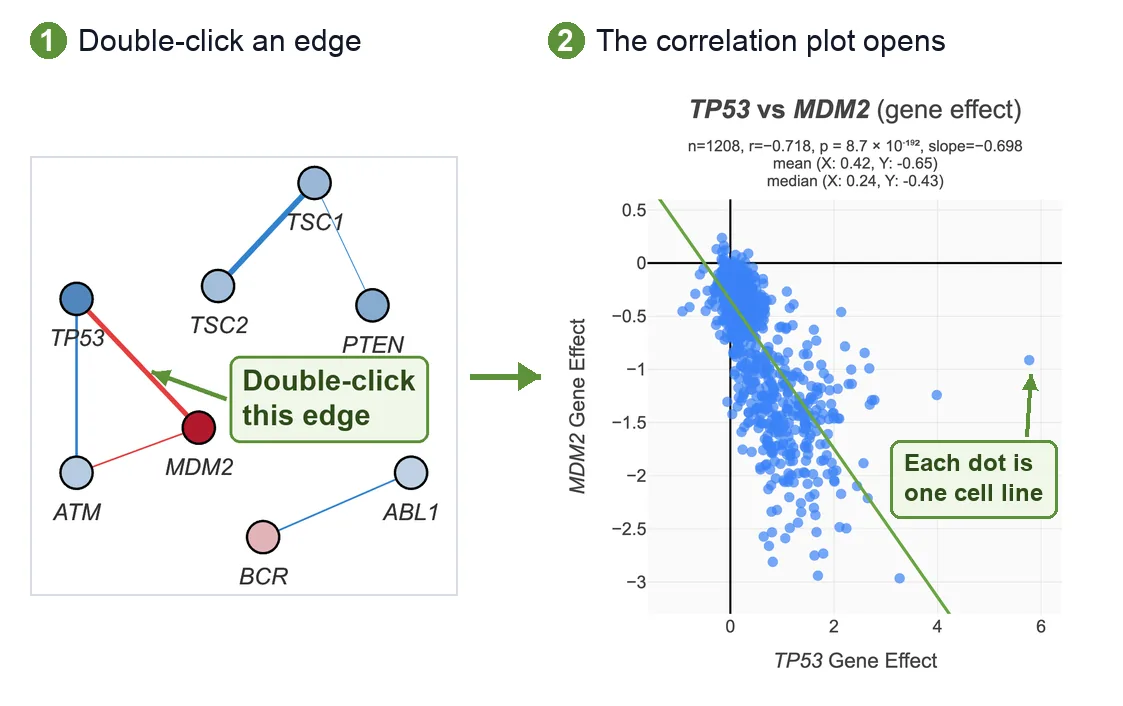
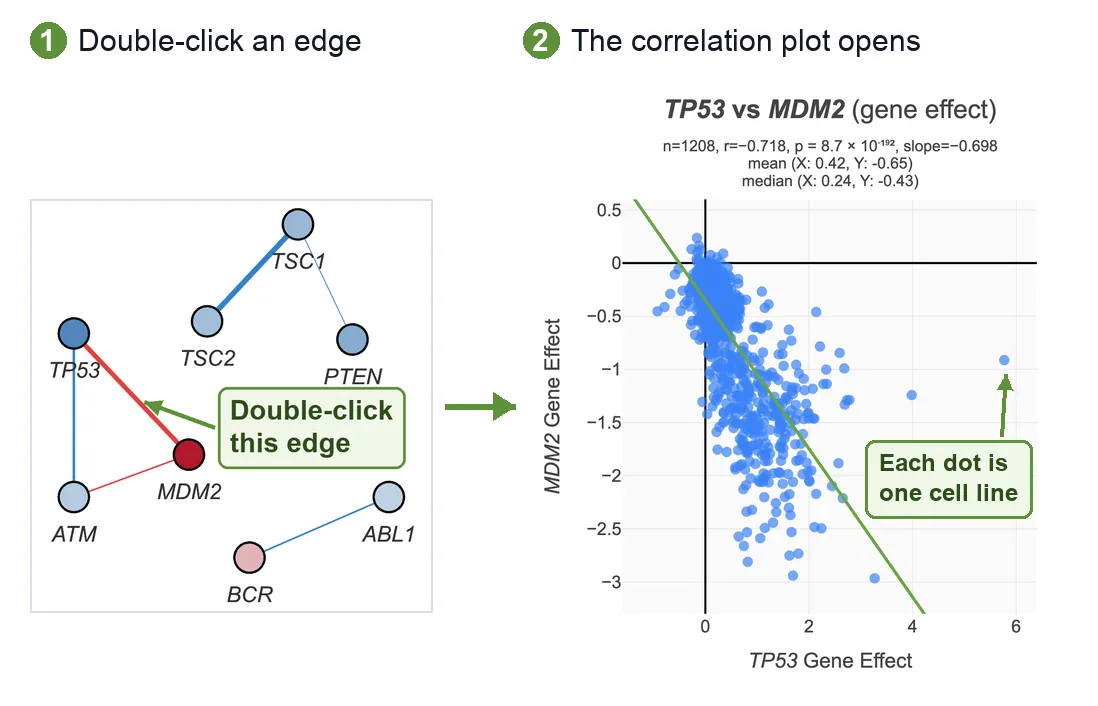
v.91.53: tour: edge figure network panel aligned with the plot area
Claude-Session: https://claude.ai/code/session_01GrRsah6zkLaafT5s7nhzFW

diff --git a/index.html b/index.html
@@ -3017,6 +3017,10 @@
                 <button onclick="this.closest('#changelogModal').style.display='none'" style="background:none;border:none;font-size:20px;cursor:pointer;">&times;</button>
             </div>
             <div style="font-size:12px; line-height:1.6; color:#374151;">
+                <p><strong>v.91.53 (2026-10-25)</strong></p>
+                <ul>
+                    <li>Tour of the app: in the edge-to-plot figure the network panel lines up with the correlation plot's plot area.</li>
+                </ul>
                 <p><strong>v.91.52 (2026-10-25)</strong></p>
                 <ul>
                     <li>Tour of the app: the sequence viewer example shows the genomic view (TP53 exons 2 to 4 between their introns, with the start codon marked) instead of the mRNA.</li>
@@ -8863,7 +8867,7 @@
             </span>
             <!-- Positioned off the row's right end (see #versionBadge CSS), so
                  it sits next to YouTube without moving the centered links. -->
-            <a href="#" id="versionBadge" onclick="event.preventDefault();document.getElementById('changelogModal').style.display='flex'" style="font-family:monospace; font-size:11px; background:#f3f4f6; padding:2px 8px; border-radius:10px; color:#6b7280; border:1px solid #d1d5db; font-weight:400;">v.91.52</a>
+            <a href="#" id="versionBadge" onclick="event.preventDefault();document.getElementById('changelogModal').style.display='flex'" style="font-family:monospace; font-size:11px; background:#f3f4f6; padding:2px 8px; border-radius:10px; color:#6b7280; border:1px solid #d1d5db; font-weight:400;">v.91.53</a>
         </span>
     </div>
 
@@ -12242,6 +12246,6 @@
     </div>
 
     <script src="app.js?v=v91_50"></script>
-    <script src="tour.js?v=v91_52"></script>
+    <script src="tour.js?v=v91_53"></script>
 </body>
 </html>
